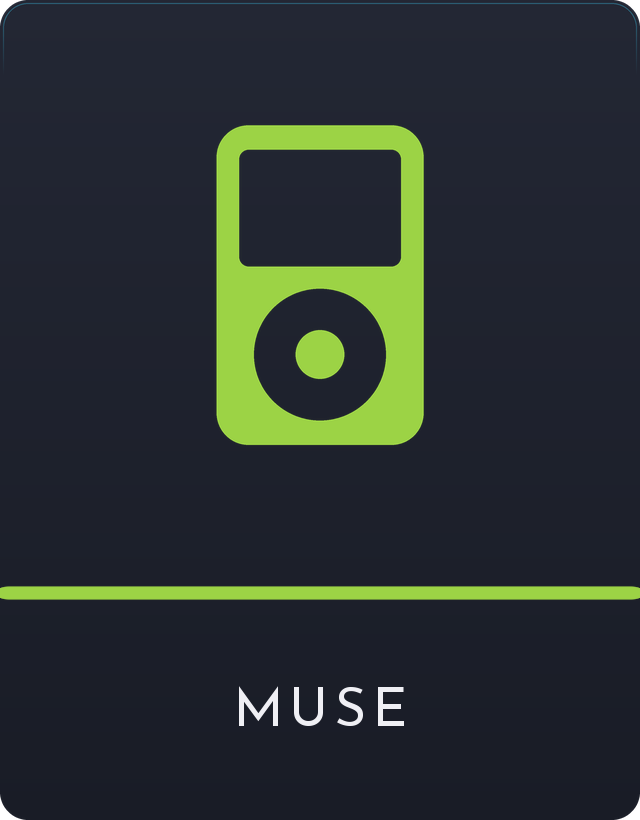
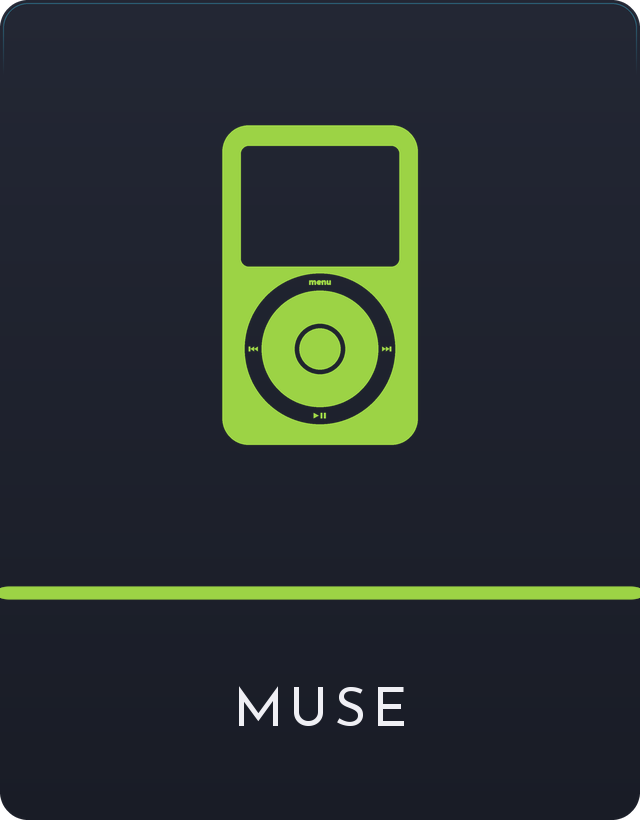
Muse: a first-generation iPod on both cards
Fancy Pants is SkyWalker541's picture of a first-generation iPod, cut from its
backdrop by tools/genmusephoto.py with its screen blanked: the menu, icons and
rule are filled with the LCD's own surface and grain, the bezel's shading kept.
Plain Jane draws the same iPod flat, in the photograph's proportions, its
screen blank and menu, back, forward and play/pause in the button ring.

Claude-Session: https://claude.ai/code/session_01TGGsTE1DNkb6MQqq6tNzFj

Changed region(s): [[0.3125, 0.1524, 0.6875, 0.5488]]

diff --git a/tools/genmusecard.py b/tools/genmusecard.py
@@ -1,5 +1,10 @@
 #!/usr/bin/env python3
-"""Draw Muse's two cards: res/cards/classic/MUSE.png and res/cards/fancy/MUSE.png.
+"""Draw Muse's Plain Jane card, res/cards/classic/MUSE.png.
+
+Since ChaOS 2.7.6 the Fancy Pants card is a photograph of a first-generation
+iPod, cut by tools/genmusephoto.py; this file's fancy() is the older path,
+kept for the green iPod nano photograph it was cut from, and main() no longer
+runs it.
 
 Muse is not a console, so like Favorites it has no photograph in the classic
 set to trace and no hand-drawn card to copy - which is why it is generated, the
@@ -13,10 +18,13 @@ MUSE_ACCENT in src/main.c; change one, change the other.
 
 CLASSIC is built on tools/cardstyle.py, the drawn set's own stock, rule and
 tracked name (ChaOS, 2026-11-13; it was a flat slab to the set's measurements
-before). The mark is an iPod reduced to three flat
-shapes - body, screen, click wheel - with the screen and the wheel KNOCKED OUT
-back to the card stock rather than outlined, because the deck has no strokes
-anywhere and a stroked mark thins to nothing at the 62% a side card is drawn at.
+before). The mark is the Fancy Pants card's
+first-generation iPod drawn flat - its body, its blank screen, the button ring
+round the scroll wheel with "menu", back, forward and play/pause in it, and
+the centre button - in the photograph's own proportions. The screen and the
+ring are KNOCKED OUT back to the card stock rather than outlined, because the
+deck has no strokes anywhere and a stroked mark thins to nothing at the 62% a
+side card is drawn at. (Three shapes, body, screen and wheel, until 2.7.5.)
 
 FANCY follows res/cards/fancy/SOURCE.md: trimmed to its own alpha, longest side
 96% of a 384 frame, centered - and KEPT IN THE 384 CANVAS, because it is taller
@@ -29,7 +37,7 @@ tall in the same canvas, and so is this.
 import os
 import sys
 
-from PIL import Image
+from PIL import Image, ImageFont
 
 sys.path.insert(0, os.path.dirname(os.path.abspath(__file__)))
 import cardstyle  # noqa: E402
@@ -44,23 +52,73 @@ GREEN = (0x9C, 0xD3, 0x45)
 
 
 def mark(d, cx, cy, k, fill, cut, scale=0.94):
-    """An iPod in three flat shapes: the body, then the screen and the click
-    wheel punched through it, then the wheel's center button left standing.
-    At 0.94, 320px tall: the height of the tallest console marks."""
+    """A first-generation iPod, flat: the body; the screen knocked out and
+    blank, as the Fancy Pants card's is; the button
+    ring knocked out round the scroll wheel, its four buttons' marks standing
+    in it; the centre button parted from the wheel by a knocked-out gap."""
     k = k * scale
-    bw, bh = 220 * k, 340 * k
+    bw, bh = 208 * k, 340 * k
     x0, y0 = cx - bw / 2, cy - bh / 2
-    d.rounded_rectangle([x0, y0, x0 + bw, y0 + bh], radius=34 * k, fill=fill)
+    d.rounded_rectangle([x0, y0, x0 + bw, y0 + bh], radius=28 * k, fill=fill)
 
-    sw, sh = 172 * k, 124 * k
-    sx, sy = cx - sw / 2, y0 + 26 * k
-    d.rounded_rectangle([sx, sy, sx + sw, sy + sh], radius=10 * k, fill=cut)
+    # the screen, landscape, and its menu
+    sw, sh = 168 * k, 128 * k
+    sx, sy = cx - sw / 2, y0 + 22 * k
+    d.rounded_rectangle([sx, sy, sx + sw, sy + sh], radius=8 * k, fill=cut)
 
-    wr = 70 * k                                # the wheel
-    wy = y0 + bh - 26 * k - wr
-    d.ellipse([cx - wr, wy - wr, cx + wr, wy + wr], fill=cut)
-    br = 26 * k                                # its center button
-    d.ellipse([cx - br, wy - br, cx + br, wy + br], fill=fill)
+    # the button ring, the wheel, the centre button, in the photograph's
+    # proportions: measured across the ring's outer edge (339 px there), the
+    # wheel is 77% of it, the centre button 27%, "menu" 15% wide, back and
+    # forward 6% each, play/pause 8%
+    R = 80 * k
+    D = 2 * R                                  # the ring's outer width
+    r1, r2 = 0.775 * R, 0.274 * R
+    wy = y0 + bh - 22 * k - R
+    d.ellipse([cx - R, wy - R, cx + R, wy + R], fill=cut)
+    d.ellipse([cx - r1, wy - r1, cx + r1, wy + r1], fill=fill)
+    g = r2 + 0.06 * R
+    d.ellipse([cx - g, wy - g, cx + g, wy + g], fill=cut)
+    d.ellipse([cx - r2, wy - r2, cx + r2, wy + r2], fill=fill)
+
+    rm = (R + r1) / 2                          # the labels sit mid-ring
+    # "menu", sized to its measured width
+    size = 40
+    f = ImageFont.truetype(cardstyle.FONT, size)
+    l, t0, r_, b0 = d.textbbox((0, 0), "menu", font=f)
+    f = ImageFont.truetype(cardstyle.FONT, max(1, round(size * 0.150 * D / (r_ - l))))
+    # the photograph's label is a heavier face than the card's; a stroke of
+    # its own colour gives it that weight
+    d.text((cx, wy - rm), "menu", font=f, fill=fill, anchor="mm",
+           stroke_width=max(1, round(0.0025 * D)), stroke_fill=fill)
+
+    # back and forward: a bar and two triangles, 6.3% wide, 3.2% tall
+    bw_, bh_ = 0.063 * D, 0.032 * D
+    bar = 0.012 * D
+    tri = (bw_ - bar) / 2
+    for sgn in (-1, 1):                        # -1 back on the left, 1 forward on the right
+        bx0 = cx + sgn * rm - bw_ / 2
+        hy = bh_ / 2
+        if sgn < 0:                            # |<<
+            d.rectangle([bx0, wy - hy, bx0 + bar, wy + hy], fill=fill)
+            for i in range(2):
+                tx = bx0 + bar + i * tri
+                d.polygon([(tx + tri, wy - hy), (tx + tri, wy + hy), (tx, wy)], fill=fill)
+        else:                                  # >>|
+            for i in range(2):
+                tx = bx0 + i * tri
+                d.polygon([(tx, wy - hy), (tx, wy + hy), (tx + tri, wy)], fill=fill)
+            d.rectangle([bx0 + 2 * tri, wy - hy, bx0 + bw_, wy + hy], fill=fill)
+
+    # play/pause: a triangle and two bars, 8.4% wide, 3.7% tall
+    pw, ph = 0.084 * D, 0.037 * D
+    px0, py = cx - pw / 2, wy + rm
+    hy = ph / 2
+    tw, gap, bwid = 0.42 * pw, 0.12 * pw, 0.15 * pw
+    d.polygon([(px0, py - hy), (px0, py + hy), (px0 + tw, py)], fill=fill)
+    b1 = px0 + tw + gap
+    d.rectangle([b1, py - hy, b1 + bwid, py + hy], fill=fill)
+    b2 = b1 + bwid + gap
+    d.rectangle([b2, py - hy, b2 + bwid, py + hy], fill=fill)
 
 
 def classic():
@@ -85,11 +143,6 @@ def fancy(photo):
 
 def main():
     classic()
-    photo = sys.argv[1] if len(sys.argv) > 1 else PHOTO
-    if os.path.exists(photo):
-        fancy(photo)
-    else:
-        print("no photograph at", photo, "- the fancy card was not redrawn")
 
 
 if __name__ == "__main__":

diff --git a/tools/genmusephoto.py b/tools/genmusephoto.py
@@ -1,0 +1,124 @@
+#!/usr/bin/env python3
+"""Cut res/cards/fancy/MUSE.png, Muse's card in Fancy Pants, from
+res/cards/fancy/source/muse-ipod.jpg: a first-generation iPod (2001) on a
+white studio backdrop, at the set's 3/4 angle (res/cards/fancy/SOURCE.md).
+
+ITS SCREEN IS BLANK. The photograph shows a menu; the card shows the LCD as
+it is with nothing on it (SkyWalker541, 2026-11-22). blank_screen() fits a
+smooth surface to the screen's own empty pixels, finds what is darker than
+it - the menu, its highlighted row, the icons, the rule - and fills that with
+the surface and grain of the photograph's own size, kept clear of the dark
+rim the bezel casts on the screen's left and bottom edges, which stays.
+
+The backdrop is pure white and the iPod's edge a grey, so a cut at 10 levels
+below white finds the whole device in one piece; GrabCut then settles the
+edge in a narrow band around it, sure inside well in from it, sure backdrop
+well out. The largest piece is kept, filled, its outline smoothed, pulled in
+a pixel so no backdrop rims it, and feathered a pixel. The colours are the
+photograph's, cleaned of its speckle and sharpened lightly, as Ports' are.
+Then trimmed, longest side 96% of 384, centred, in the 384 canvas, as the
+set is.
+
+    tools/genmusephoto.py [out]
+"""
+import os
+import sys
+
+import cv2
+import numpy as np
+from PIL import Image, ImageFilter
+from scipy import ndimage
+
+ROOT = os.path.dirname(os.path.dirname(os.path.abspath(__file__)))
+SRC = os.path.join(ROOT, "res", "cards", "fancy", "source", "muse-ipod.jpg")
+OUT = os.path.join(ROOT, "res", "cards", "fancy", "MUSE.png")
+
+
+# The LCD's edges in the photograph (1200x896): lines fitted to where the
+# white bezel meets the screen, each within 0.6 px of the edge it follows.
+def _top(x): return 0.13533 * x + 84.07
+def _bot(x): return 0.15636 * x + 307.91
+def _lef(y): return 0.019025 * y + 430.50
+def _rig(y): return -0.013783 * y + 725.70
+
+
+def blank_screen(src):
+    a = np.asarray(src).astype(float)
+    h, w = a.shape[:2]
+    yy, xx = np.mgrid[0:h, 0:w].astype(float)
+
+    def inside(il, ir, it, ib):
+        return ((xx > _lef(yy) + il) & (xx < _rig(yy) - ir) &
+                (yy > _top(xx) + it) & (yy < _bot(xx) - ib))
+
+    # clear of the left and bottom rim, close to the light top and right
+    zone = inside(11, 2, 3, 10)
+    fitz = inside(11, 4, 6, 10)
+    u, v = (xx - 580) / 150.0, (yy - 280) / 130.0
+
+    def basis(m):
+        U, V = u[m], v[m]
+        return np.stack([np.ones_like(U), U, V, U * U, U * V, V * V,
+                         U ** 3, V ** 3, U * U * V, U * V * V], 1)
+
+    # the empty screen's brightness, refitted without what it leaves out
+    lum = a.mean(-1)
+    sel = fitz & (lum > np.percentile(lum[fitz], 35))
+    for _ in range(4):
+        cl = np.linalg.lstsq(basis(sel), lum[sel], rcond=None)[0]
+        fit = np.zeros_like(lum)
+        fit[fitz] = basis(fitz) @ cl
+        sd = (lum - fit)[sel].std()
+        sel = fitz & (lum - fit > -2.0 * sd)
+
+    surf = np.zeros_like(a)
+    bz = basis(zone)
+    for c in range(3):
+        surf[..., c][zone] = bz @ np.linalg.lstsq(basis(sel), a[..., c][sel], rcond=None)[0]
+
+    # what is on it: darker than the surface past its grain, grown by its edge
+    dark = zone & ((surf.mean(-1) - lum) > 3.0 * sd)
+    content = ndimage.binary_closing(ndimage.binary_dilation(dark, iterations=3) & zone,
+                                     iterations=2) & zone
+    rng = np.random.default_rng(1)
+    grain = ndimage.gaussian_filter(rng.normal(0, 1, (h, w)), 0.7)
+    grain *= sd / grain.std()
+    wgt = ndimage.gaussian_filter(content.astype(float), 1.0)
+    wgt[~zone] = 0
+    out = a * (1 - wgt[..., None]) + (surf + grain[..., None]) * wgt[..., None]
+    return Image.fromarray(np.clip(out, 0, 255).astype(np.uint8))
+
+
+def main(out_path):
+    src = blank_screen(Image.open(SRC).convert("RGB"))
+    a = np.asarray(src).astype(int)
+    rough = (255 - a.min(-1)) > 10
+    lab, n = ndimage.label(rough)
+    rough = ndimage.binary_fill_holes(lab == 1 + np.argmax(ndimage.sum(rough, lab, range(1, n + 1))))
+
+    mask = np.full(rough.shape, cv2.GC_PR_BGD, np.uint8)
+    mask[rough] = cv2.GC_PR_FGD
+    mask[ndimage.binary_erosion(rough, iterations=8)] = cv2.GC_FGD
+    mask[~ndimage.binary_dilation(rough, iterations=6)] = cv2.GC_BGD
+    img = cv2.cvtColor(np.asarray(src), cv2.COLOR_RGB2BGR)
+    cv2.grabCut(img, mask, None, np.zeros((1, 65)), np.zeros((1, 65)), 5, cv2.GC_INIT_WITH_MASK)
+    obj = (mask == cv2.GC_FGD) | (mask == cv2.GC_PR_FGD)
+    lab, n = ndimage.label(obj)
+    obj = ndimage.binary_fill_holes(lab == 1 + np.argmax(ndimage.sum(obj, lab, range(1, n + 1))))
+    smooth = ndimage.binary_erosion(ndimage.gaussian_filter(obj.astype(float), 2.0) > 0.5, iterations=1)
+    alpha = ndimage.gaussian_filter(smooth.astype(float), 0.8)
+
+    out = src.filter(ImageFilter.MedianFilter(3)).filter(
+        ImageFilter.UnsharpMask(radius=1.2, percent=55, threshold=2))
+    out.putalpha(Image.fromarray((alpha * 255).astype(np.uint8)))
+    out = out.crop(out.getchannel("A").getbbox())
+    k = 369.0 / max(out.size)
+    out = out.resize((round(out.width * k), round(out.height * k)), Image.LANCZOS)
+    card = Image.new("RGBA", (384, 384), (0, 0, 0, 0))
+    card.paste(out, ((384 - out.width) // 2, (384 - out.height) // 2), out)
+    card.save(out_path)
+    print(out_path, card.size, "ink", card.getchannel("A").getbbox())
+
+
+if __name__ == "__main__":
+    main(sys.argv[1] if len(sys.argv) > 1 else OUT)

diff --git a/CREDITS.md b/CREDITS.md
@@ -150,7 +150,7 @@ sold, put behind a paywall, or shipped with a device that is sold.
 - **The port library pack** (`dist/libpack/`, the "portlibs" release, `tools/build-libpack.sh`): libraries a port may need that the Brick hasn't got, fetched by ChaOS only for a port that needs one, into `.userdata/brick/ports/lib`: **libtheora** 1.1.1 (BSD-3-Clause), **pixman** 0.42.2 (MIT), **GMP** 6.3.0 (LGPL-3.0-or-later or GPL-2.0-or-later), **cairo** 1.18.0 (LGPL-2.1 or MPL-1.1), **fontconfig** 2.15.0 (MIT), **FLAC** 1.3.3 (BSD-3-Clause), **libevdev** 1.13.1 (MIT), GCC 13.3.0's **libgomp** (GPL-3.0-or-later with the GCC Runtime Library Exception), and ChaOS's own stand-in for PulseAudio's **libpulse-simple** (MIT). `dist/libpack/SOURCES.txt` says where each source came from; the sources go with the release.
 - **GNU bash** 5.1.16 (https://www.gnu.org/software/bash/, GPL-3.0-or-later): `/bin/bash` in the image, unchanged, for ports. Its licence is `Licenses/bash.txt` on the card and its source is in each release's sources archive (`dist/brick/bash-source.tar.xz`, built by `tools/build-bash.sh`).
 - **squashfs-tools** 4.6.1's **unsquashfs** (https://github.com/plougher/squashfs-tools, GPL-2.0-or-later), built static with **zlib** 1.3.1 (zlib licence), **xz** 5.6.3 (0BSD and public domain), **Zstandard** 1.5.6 (BSD) and **LZ4** 1.10.0 (BSD-2-Clause): unpacks ports' runtimes on the card (`TortOS/ports/bin/unsquashfs`), unchanged. Its licence is `Licenses/squashfs-tools.txt` on the card and its source is in each release's sources archive (`dist/brick/unsquashfs-source.tar.xz`, built by `tools/build-unsquashfs.sh`).
-- **The Favorites, Muse, Recently Played, Ports and PICO-8 cards** are ChaOS's own, with no third-party images: in Plain Jane on the drawn set's own card (`tools/cardstyle.py`, `tools/genpico8card.py`), in Fancy Pants rendered in 3D as objects (`tools/raymarch.py`; `tools/genmusefancy.py`, `tools/genportsfancy.py`, `tools/genrecentfancy.py`, `tools/genpico8fancy.py`). The PICO-8 cards are a generic cartridge with a pixel heart, nothing of PICO-8's own logo; their pink is a color of its palette. Muse's Fancy Pants card replaces TortOS's iPod photograph, whose source was never recorded. Recently Played's Fancy Pants card is a watch whose ChaOS dial is by SkyWalker541, made for ChaOS (`res/cards/fancy/source/recent-watch.jpg`), on a case rendered by `tools/genrecentwatch.py`.
+- **The Favorites, Muse, Recently Played, Ports and PICO-8 cards** are ChaOS's own, with no third-party images: in Plain Jane on the drawn set's own card (`tools/cardstyle.py`, `tools/genpico8card.py`), in Fancy Pants rendered in 3D as objects (`tools/raymarch.py`; `tools/genmusefancy.py`, `tools/genportsfancy.py`, `tools/genrecentfancy.py`, `tools/genpico8fancy.py`). The PICO-8 cards are a generic cartridge with a pixel heart, nothing of PICO-8's own logo; their pink is a color of its palette. Muse's Fancy Pants card is a first-generation iPod, its picture by SkyWalker541, generated with Gemini for ChaOS (`res/cards/fancy/source/muse-ipod.jpg`), cut and its screen blanked by `tools/genmusephoto.py`; it replaces TortOS's iPod photograph, whose source was never recorded. Recently Played's Fancy Pants card is a watch whose ChaOS dial is by SkyWalker541, made for ChaOS (`res/cards/fancy/source/recent-watch.jpg`), on a case rendered by `tools/genrecentwatch.py`.
 - **ChaOS logo** ("Handheld burst"): original pixel art made for ChaOS, drawn
   pixel by pixel in `tools/genlogo.py` with no third-party images or fonts;
   see `res/logo/SOURCE.md`.

diff --git a/res/cards/fancy/SOURCE.md b/res/cards/fancy/SOURCE.md
@@ -35,12 +35,16 @@ attribution requirement, and no rights are claimed in it.
 
 ## MUSE.png
 
-Not a console, and not one of the photographs above. A green iPod nano (4th
-generation) at the same 3/4 angle as the set, supplied by Eric on 2026-09-18
-for Muse's card; where the photograph came from is not recorded here. The
-original is kept outside the repository in `cards_backup_photos/muse.png`, and
-`tools/genmusecard.py` cuts this card from it: trimmed to its alpha, longest
-side 96% of 384 and centred, in the 384 canvas because it is taller than wide.
+Not a console: Muse's card, a first-generation iPod (2001) at the set's 3/4
+angle on a white studio backdrop, supplied by SkyWalker541 on 2026-11-22 for
+this card, generated with Gemini (`source/muse-ipod.jpg`, kept here).
+`tools/genmusephoto.py` cuts it from its backdrop and frames it as above, and
+blanks its screen: the picture showed a menu, and the card shows the LCD with
+nothing on it, the menu, icons and rule filled with the screen's own surface
+and grain and the bezel's shading on the screen kept. The wheel's printed
+labels are the device's own and stay. It replaced the green iPod nano cut by
+`tools/genmusecard.py` from a photograph whose source was never recorded (the
+rendered player of `tools/genmusefancy.py` before that; both kept).
 
 ## RECENT.png
 
